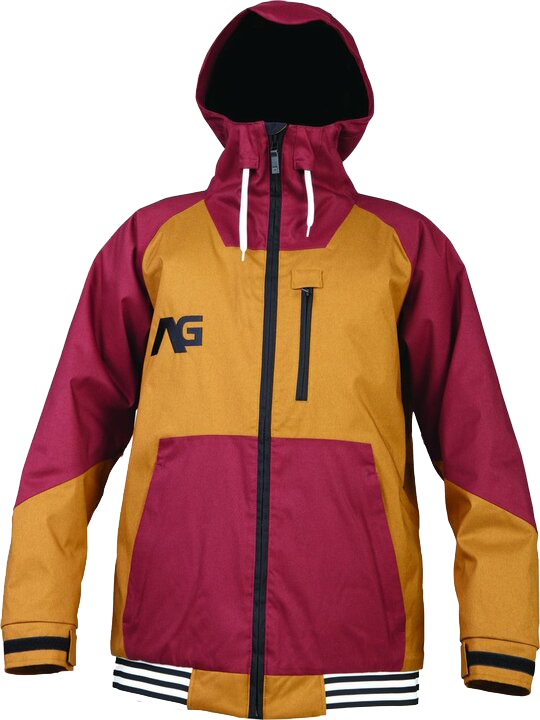
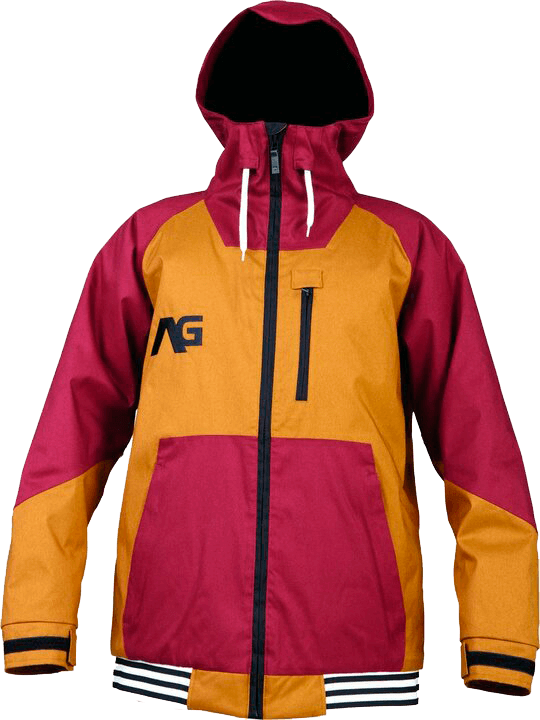
box sizing border box, compressed images, white space added

diff --git a/css/styles.css b/css/styles.css
@@ -1,6 +1,13 @@
 html {
   font-size: 62.5%;
   scroll-behavior: smooth;
+  box-sizing: border-box;
+}
+
+*,
+*:before,
+*:after {
+  box-sizing: inherit;
 }
 
 body {
@@ -114,7 +121,7 @@ header {
 }
 
 .container {
-  width: 80%;
+  width: 90%;
   margin: 0 auto;
 }
 
@@ -124,7 +131,7 @@ header {
   display: flex;
   justify-content: space-around;
   flex-wrap: wrap;
-  margin-top: 50px;
+  margin: 100px auto;
 }
 
 .our-service-card {
@@ -138,6 +145,8 @@ header {
 }
 
 .our-service-p {
+  margin: 0 auto;
+  width: 80%;
   font-size: 1.5rem;
 }
 
@@ -167,12 +176,11 @@ header {
 .image-card:nth-of-type(3) {
   background-image: url("/images/man-wearing-overalls-holding-snowboard-standing-on-snow-1653419.jpg");
 }
+
 /* ------ our products section ------ */
 
 #our-products {
   text-align: center;
-  width: 90%;
-  margin: 0 auto;
 }
 
 .our-products-container {
@@ -187,10 +195,10 @@ header {
 }
 
 .our-products-container a {
-  padding: 2%;
-  flex-grow: 1;
-  flex-basis: 16%;
   display: flex;
+  flex-grow: 1;
+  flex-basis: 20%;
+  padding: 2%;
   text-decoration: none;
   font-family: "Karla", sans-serif;
   background-color: rgb(255, 255, 255);
@@ -286,21 +294,21 @@ header {
   }
 
   .our-products-container a {
-    flex: 1 calc(100% / 3 - 12%);
+    flex: 1 calc(100% / 3);
   }
 
   .our-products-container a:nth-child(1),
   .our-products-container a:nth-child(2) {
-    flex: 1 calc(100% / 2 - 8%);
+    flex: 1 calc(100% / 2);
   }
 }
 
 @media (max-width: 600px) {
   .our-products-container a:first-of-type {
-    flex: 1 calc(100% - 4%);
+    flex: 1 calc(100%);
   }
   .our-products-container a {
-    flex: 1 calc(100% / 2 - 8%);
+    flex: 1 calc(100% / 2);
   }
 }
 

diff --git a/addJackets.js b/addJackets.js
@@ -7,7 +7,7 @@ let jackets = [
   { name: "Flicker", price: "$399" },
   { name: "Flint", price: "$399" },
   { name: "Frontier", price: "$399" },
-  { name: "Gala", price: "$399" },
+  { name: "Gala", price: "$120" },
   { name: "Greed Jacket", price: "$399" },
   { name: "Greenlight", price: "$399" },
   { name: "Haze Varsity", price: "$399" },
@@ -23,11 +23,18 @@ let jackets = [
   { name: "Victoria", price: "$399" }
 ];
 
-jackets.forEach(jacket => {
-  let productsContainer = document.getElementsByClassName(
-    "our-products-container"
-  );
+// Adding the HTML code to display the jackets:
+/* <a href="#"
+    ><div class="product-card">
+      <img src="/images/jackets/Greed_Jacket.png" alt="Greed Jacket" />
+      <h4 class="name">Greed Jacket</h4>
+      <h5 class="price">From $170</h5>
+    </div></a
+  > */
 
+let productsContainer = document.querySelector(".our-products-container");
+
+jackets.forEach(jacket => {
   let a = document.createElement("a");
   a.setAttribute("href", "#");
 
@@ -54,5 +61,5 @@ jackets.forEach(jacket => {
   productCard.appendChild(price);
   a.appendChild(productCard);
   console.log(a);
-  productsContainer[0].appendChild(a);
+  productsContainer.appendChild(a);
 });

diff --git a/index.html b/index.html
@@ -79,7 +79,7 @@
       
     </section cals>
 
-    <section id="our-products">
+    <section id="our-products" class="container">
       <h2>Our products</h2>
       <h2>Jackets</h2>
       <div class="our-products-container">
